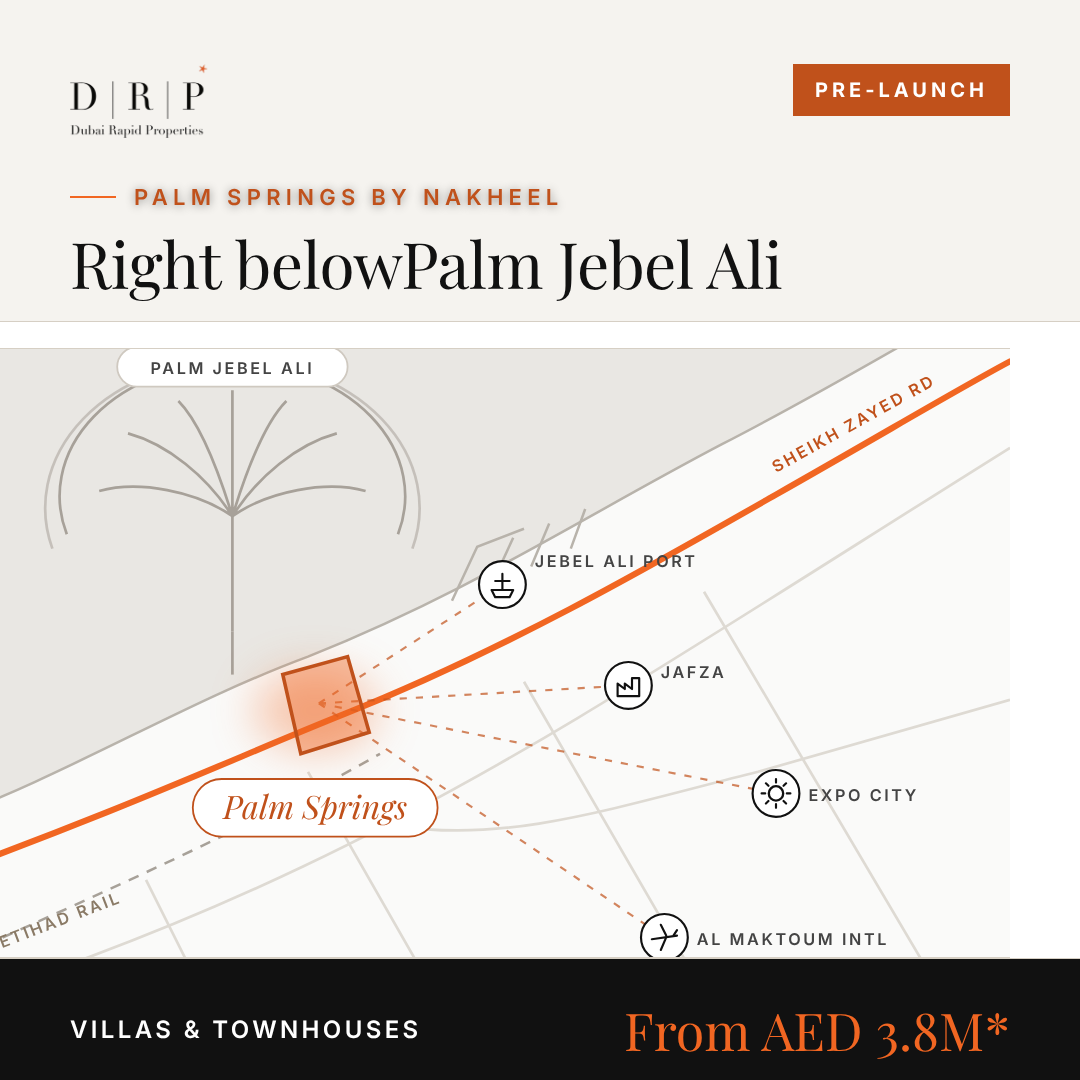
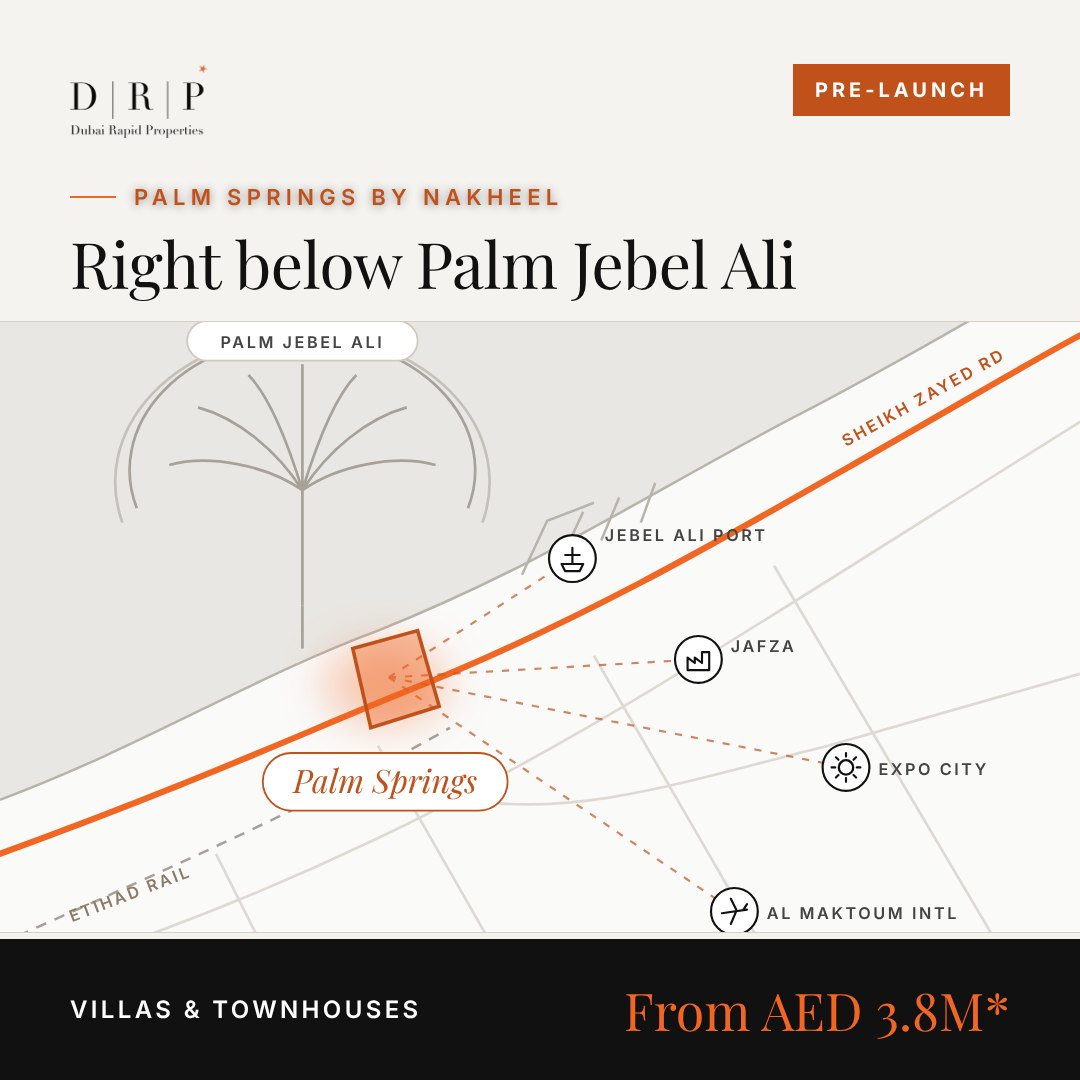
Add HQ 4:5 Instagram carousel and fix map layout in location creatives
Claude-Session: https://claude.ai/code/session_019kcpEx2YvfDVwuRMgcayWf

diff --git a/ads/src/creative.html b/ads/src/creative.html
@@ -11,7 +11,7 @@
 html,body{background:#000}
 #c{position:relative;width:1080px;overflow:hidden;font-family:var(--sans);-webkit-font-smoothing:antialiased}
 .B,.D{color:var(--ink)}
-.s1{height:1080px}.s916{height:1920px}
+.s1{height:1080px}.s45{height:1350px}.s916{height:1920px}
 .pad{position:absolute;inset:0;padding:64px 70px;display:flex;flex-direction:column}
 .s916 .pad{padding:230px 76px 330px}
 .logo{height:74px;width:auto;align-self:flex-start;flex:none}
@@ -149,6 +149,18 @@ img.bg{position:absolute;inset:0;width:100%;height:100%;object-fit:cover}
 .th.A::after{background:linear-gradient(180deg,rgba(8,8,8,.5) 0%,rgba(8,8,8,0) 18%,rgba(8,8,8,.45) 36%,rgba(8,8,8,.9) 58%,rgba(8,8,8,.95) 100%)}
 .U::after{background:linear-gradient(180deg,rgba(8,8,8,.35) 0%,rgba(8,8,8,0) 18%,rgba(8,8,8,0) 38%,rgba(8,8,8,.88) 78%,rgba(8,8,8,.92) 100%)!important}
 .eyebrow,.U small{text-shadow:0 1px 10px rgba(0,0,0,.45)}
+/* ===== 4:5 ===== */
+.s45.A::after{background:linear-gradient(180deg,rgba(8,8,8,.5) 0%,rgba(8,8,8,0) 18%,rgba(8,8,8,.45) 40%,rgba(8,8,8,.9) 62%,rgba(8,8,8,.95) 100%)}
+.s45.B h1{font-size:70px}
+.s45.B h1 br{display:none}
+.s45.B .map svg{height:641px;width:100%}
+.s45.B ul{margin-top:14px}
+.s45.B li{padding:11px 0;font-size:26px}
+.s45.B li b{font-size:29px}
+.s45.B .map{margin-top:24px}
+.s45.B ul{margin-top:22px}
+.s45.B li{padding:16px 0}
+.B .map svg.map{margin:0;border:0}
 .note{position:absolute;right:22px;bottom:16px;z-index:2;font-size:14px;letter-spacing:.18em;text-transform:uppercase;color:rgba(255,255,255,.6)}
 .note.dk{color:var(--ink3)}
 </style>
@@ -220,7 +232,7 @@ A: () => `<img class="bg" src="${HERO}">
  </div>`,
 B: () => `<div class="pad"><div class="top">${LD}<span class="tag">Pre-launch</span></div>
   <span class="eyebrow" style="margin-top:46px;color:var(--or2)">Palm Springs by Nakheel</span>
-  <h1>Right below<br>Palm Jebel Ali</h1>
+  <h1>Right below <br>Palm Jebel Ali</h1>
   <div class="map">${MAP}</div>
   <ul><li><span>Palm Jebel Ali</span><b>Next door</b></li><li><span>Sheikh Zayed Road</span><b>Direct access</b></li><li><span>Al Maktoum Airport (DWC)</span><b>~15 min</b></li></ul>
   <div class="spacer"></div>
@@ -244,9 +256,9 @@ D: () => `<div class="pad"><div class="top">${LD}<span class="tag">Pre-launch</s
  </div><span class="note dk">Representative imagery</span>`,
 U1: () => `<img class="bg" src="${TH}"><div class="pad"><div class="top">${LW}<span class="tag">Pre-launch</span></div><div class="spacer"></div>
   <small>Townhouses</small><h1>3 &amp; 4 Bedrooms</h1><p>Expected from AED 3.8M* · ~2,000 sqft</p></div><span class="note">Representative imagery</span>`,
-U2: () => `<img class="bg" src="${IMG}ps-villa.webp"><div class="pad"><div class="top">${LW}<span class="tag">Pre-launch</span></div><div class="spacer"></div>
+U2: () => `<img class="bg" src="${HQ ? "hq-villa-sq.png" : IMG + "ps-villa.webp"}"><div class="pad"><div class="top">${LW}<span class="tag">Pre-launch</span></div><div class="spacer"></div>
   <small>Standalone villas</small><h1>4 &amp; 5 Bedrooms</h1><p>Private pools · up to ~AED 9M*</p></div><span class="note">Representative imagery</span>`,
-U3: () => `<img class="bg" src="${IMG}ps-interior.webp"><div class="pad"><div class="top">${LW}<span class="tag">Pre-launch</span></div><div class="spacer"></div>
+U3: () => `<img class="bg" src="${HQ ? "hq-interior.png" : IMG + "ps-interior.webp"}"><div class="pad"><div class="top">${LW}<span class="tag">Pre-launch</span></div><div class="spacer"></div>
   <small>The lifestyle</small><h1>Indoor–outdoor living</h1><p>Contemporary homes by Nakheel</p></div><span class="note">Representative imagery</span>`,
 E: () => `<div class="pad">${LW}<div class="spacer"></div>
   <span class="eyebrow" style="color:#fff">Palm Springs by Nakheel</span>
@@ -288,6 +300,7 @@ const cls = k.startsWith("U") ? "U" : k;
 c.className = `${s} ${cls}${BG === "th" ? " th" : ""}`;
 c.innerHTML = (s === "s169" && L[k] ? L[k] : T[k])();
 if (s === "s1") c.querySelectorAll(".map svg").forEach(v => { v.setAttribute("viewBox","0 56 600 356"); v.setAttribute("preserveAspectRatio","xMidYMid slice"); });
+if (s === "s45") c.querySelectorAll(".map svg").forEach(v => v.setAttribute("viewBox","0 56 600 356"));
 </script>
 </body>
 </html>

diff --git a/ads/src/render-carousel45.js b/ads/src/render-carousel45.js
@@ -1,0 +1,18 @@
+// HQ 4:5 Instagram carousel: node ads/src/render-carousel45.js
+const { chromium } = require('playwright');
+const path = require('path'), fs = require('fs');
+const out = path.resolve(__dirname, '..', 'hq', 'carousel-4x5');
+(async () => {
+  fs.mkdirSync(out, { recursive: true });
+  const b = await chromium.launch();
+  const cards = ['A','B','U1','U2','U3','E'];
+  for (let i = 0; i < cards.length; i++) {
+    const p = await b.newPage({ viewport: { width: 1080, height: 1350 }, deviceScaleFactor: 2 });
+    await p.goto('file://' + path.join(__dirname, 'creative.html') + `?k=${cards[i]}&s=s45&hq=1`, { waitUntil: 'networkidle' }).catch(()=>{});
+    await p.evaluate(() => document.fonts.ready); await p.waitForTimeout(500);
+    const f = path.join(out, `carousel-4x5-${i+1}.png`);
+    await p.locator('#c').screenshot({ path: f }); console.log(path.basename(f));
+    await p.close();
+  }
+  await b.close();
+})();

diff --git a/ads/AD-COPY.md b/ads/AD-COPY.md
@@ -50,3 +50,24 @@ Meta fills in `{{ad.name}}` automatically. The landing page captures the UTM val
 - **Audience ideas:** UAE, plus GCC, UK, India and Russia for investors. Interests: real estate investing, luxury real estate, Dubai property, Nakheel / Emaar / DAMAC.
 - **Disclaimer:** Prices are expected or indicative, and the imagery is representative (both are already noted on the creative).
 - **Tracking:** Add your Meta Pixel ID to `index.html` so the `Lead` event fires when the form is submitted.
+
+## Instagram carousel post (4:5)
+Files: `hq/carousel-4x5/carousel-4x5-1.jpg` to `-6.jpg` (2160×2700). Upload them in order 1→6.
+
+**Caption**
+> Nakheel's next launch is coming 🌴
+>
+> Palm Springs: villas & townhouses right below Palm Jebel Ali, on Sheikh Zayed Road.
+>
+> 🏡 3 & 4 BR Townhouses
+> 🏡 4 & 5 BR Standalone Villas
+> 💰 Expected from AED 3.8M*
+> 📍 ~15 min to Al Maktoum Airport (DWC)
+>
+> Want the brochure, floor plans and launch prices before anyone else?
+> 📲 DM us or WhatsApp +971 58 527 3791
+> 🔗 Link in bio
+>
+> *Expected pricing, subject to change. Imagery is representative.
+>
+> #PalmSprings #Nakheel #PalmJebelAli #DubaiRealEstate #DubaiVillas #DubaiTownhouses #OffPlanDubai #DubaiProperty #DubaiInvestment #DRP
